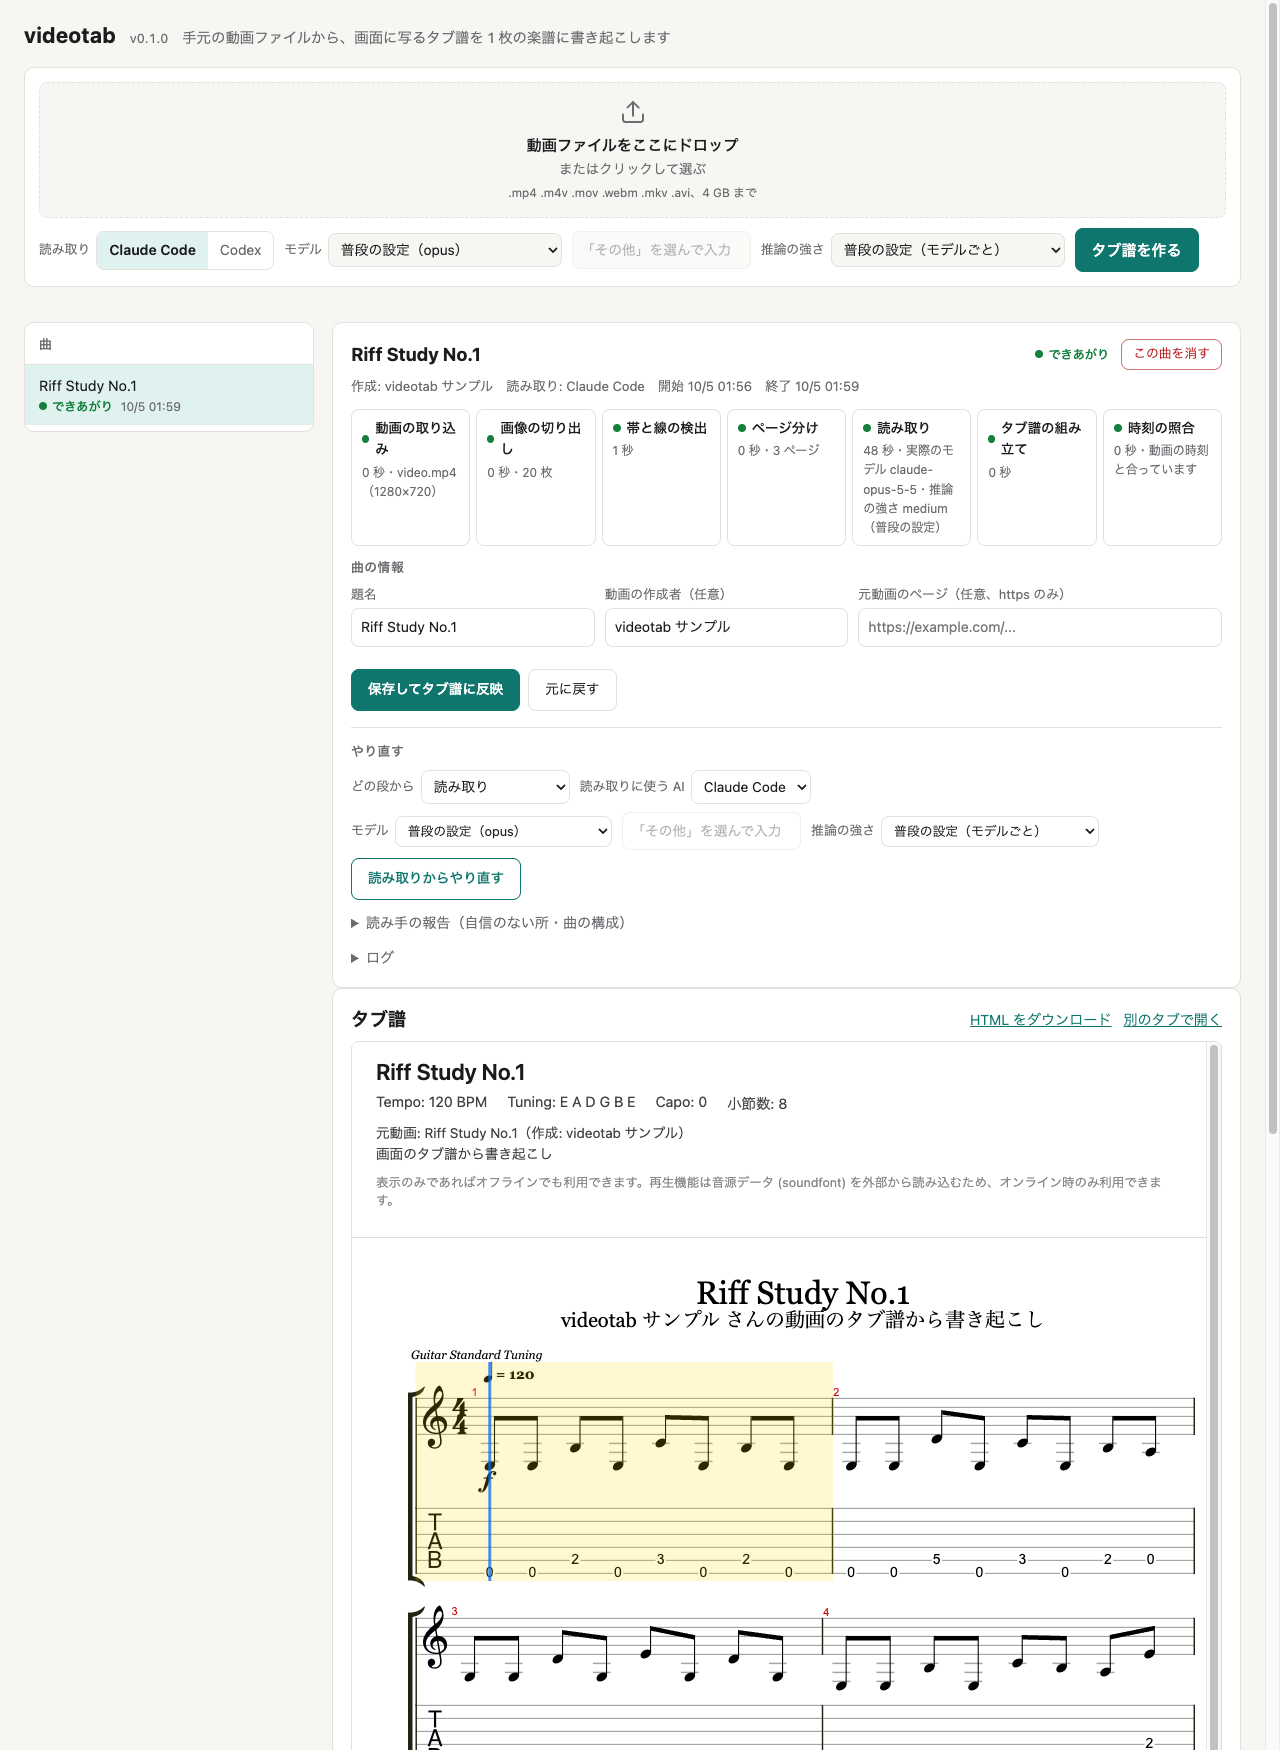
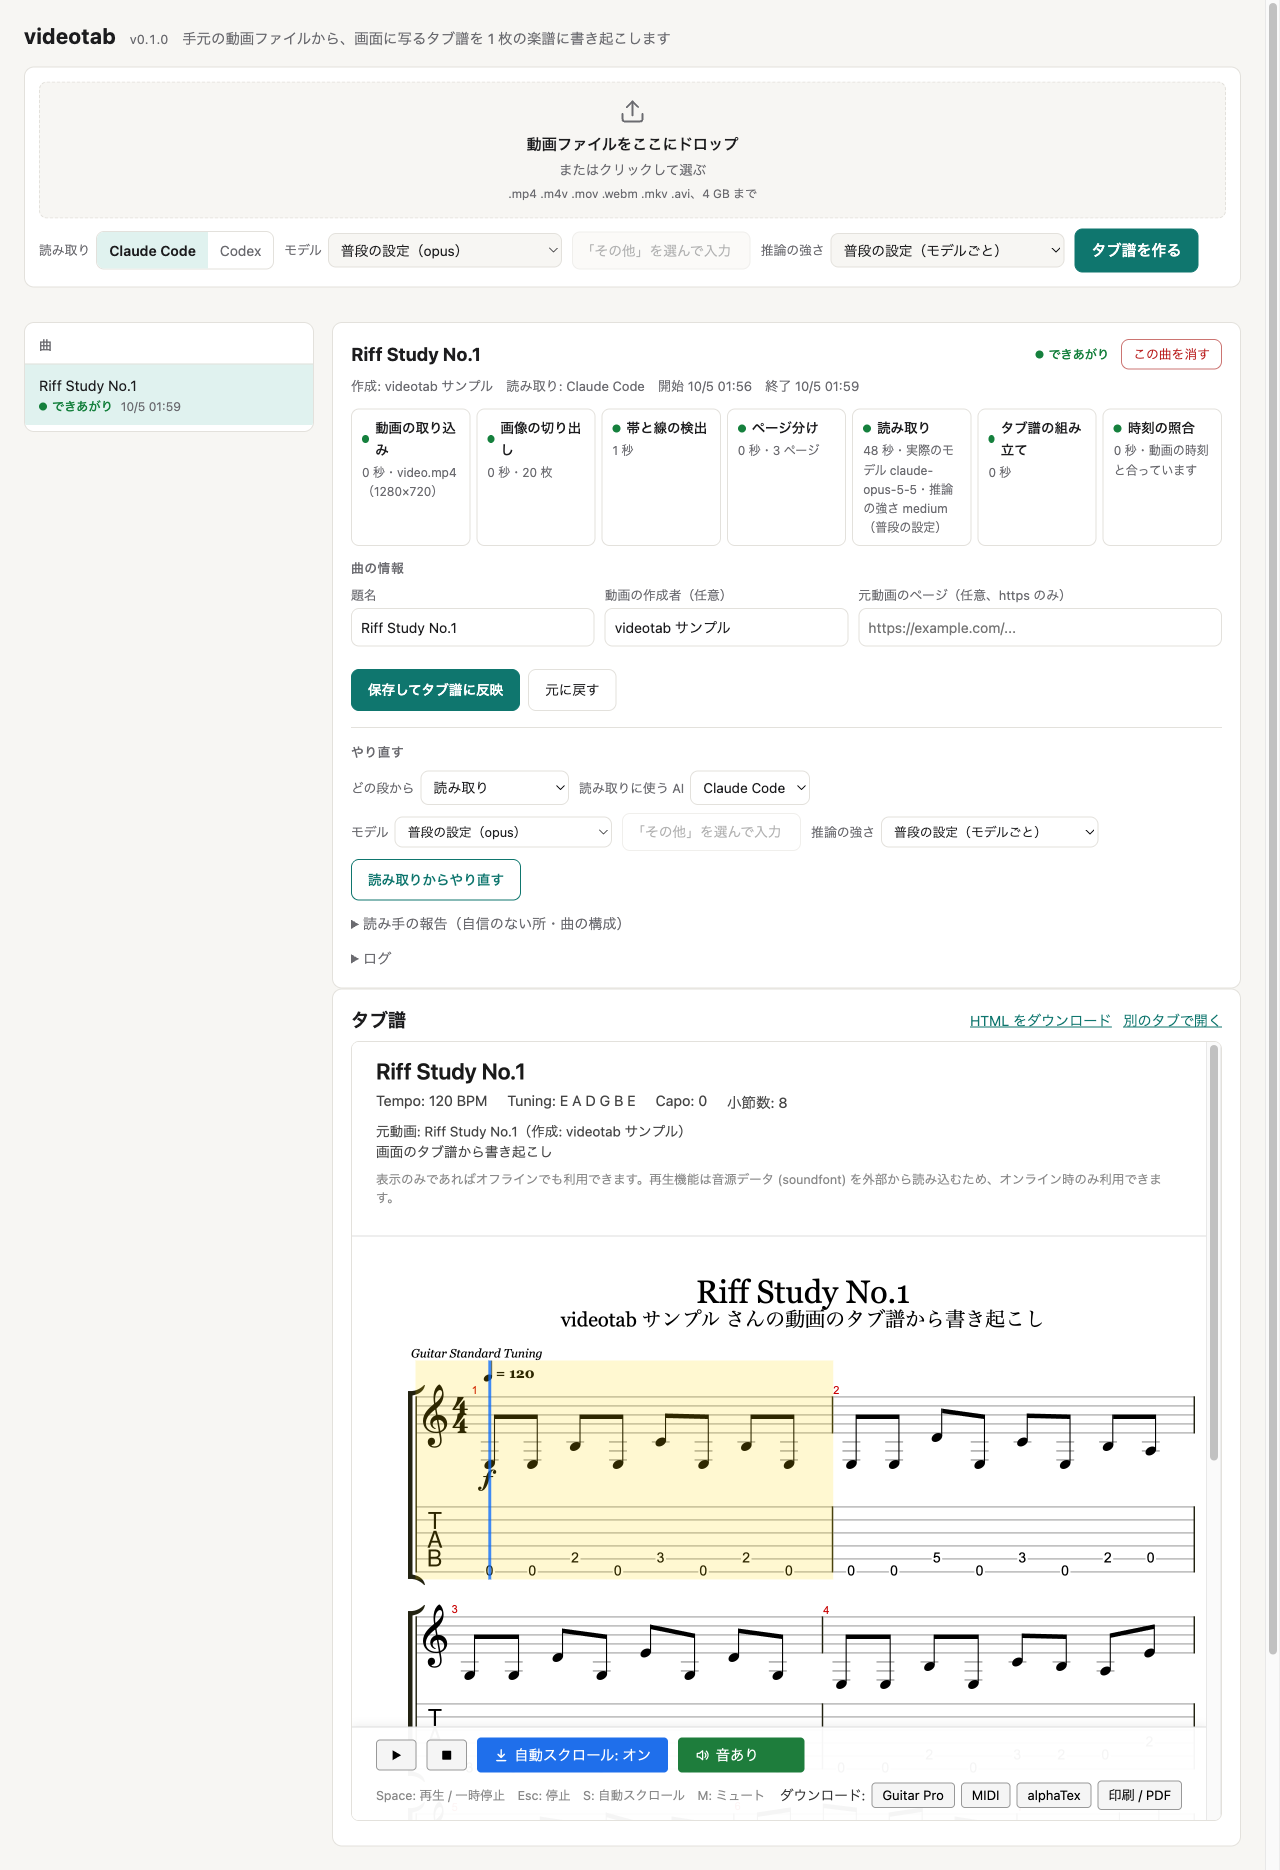
README の画面の例に楽譜の HTML 版を足し、横に並べる
- 画面の例を、楽譜の枠の下（再生とダウンロードの帯）まで写るように撮り直す
- できあがった楽譜を単独の HTML として開いたところ（docs/images/score.png）を足す
- 2 枚を table で横に並べる

diff --git a/README.md b/README.md
@@ -2,9 +2,18 @@
 
 手元の動画ファイルから、画面に写るタブ譜を 1 枚の楽譜（alphaTab の HTML＋alphaTex）に書き起こします。
 
-![videotab の画面。上に動画を送るフォーム、左に曲の一覧、右に段ごとの進み具合と、書き起こしたタブ譜が並ぶ](docs/images/screen.png)
+<table>
+  <tr>
+    <th>画面</th>
+    <th>できあがった楽譜（HTML）</th>
+  </tr>
+  <tr>
+    <td width="50%" valign="top"><img src="docs/images/screen.png" alt="videotab の画面。上に動画を送るフォーム、左に曲の一覧、右に段ごとの進み具合・曲の情報・やり直しの欄と、書き起こしたタブ譜が並ぶ"></td>
+    <td width="50%" valign="top"><img src="docs/images/score.png" alt="書き起こした楽譜の HTML。五線とタブ譜の 8 小節が並び、下に再生と Guitar Pro・MIDI・alphaTex・印刷のボタンがある"></td>
+  </tr>
+</table>
 
-画面の例は、自作の練習用リフ（8 小節）のタブ譜を写した合成の動画を、取り込みから読み取り・組み立てまで videotab で通したものです。
+画面の例は、自作の練習用リフ（8 小節）のタブ譜を写した合成の動画を、取り込みから読み取り・組み立て・時刻の照合まで videotab で通したものです。右は、できあがった楽譜を単独の HTML として開いたところです。
 
 しくみは図つきで [videotab のしくみ](https://shimabox.github.io/videotab/) にまとめてあります。
 
